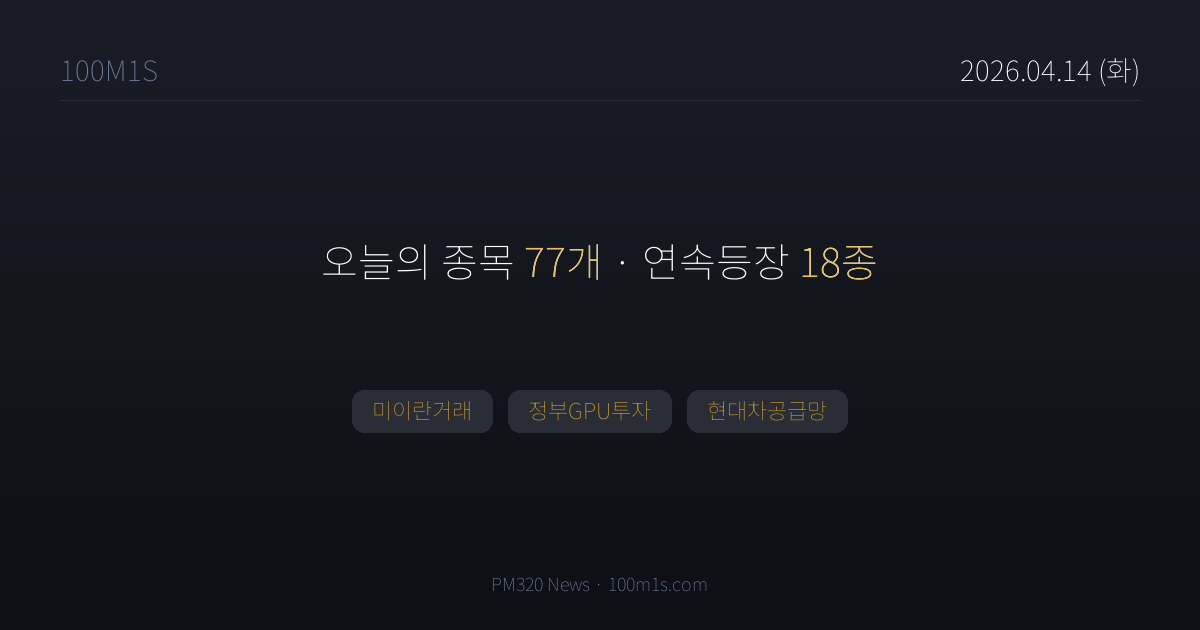
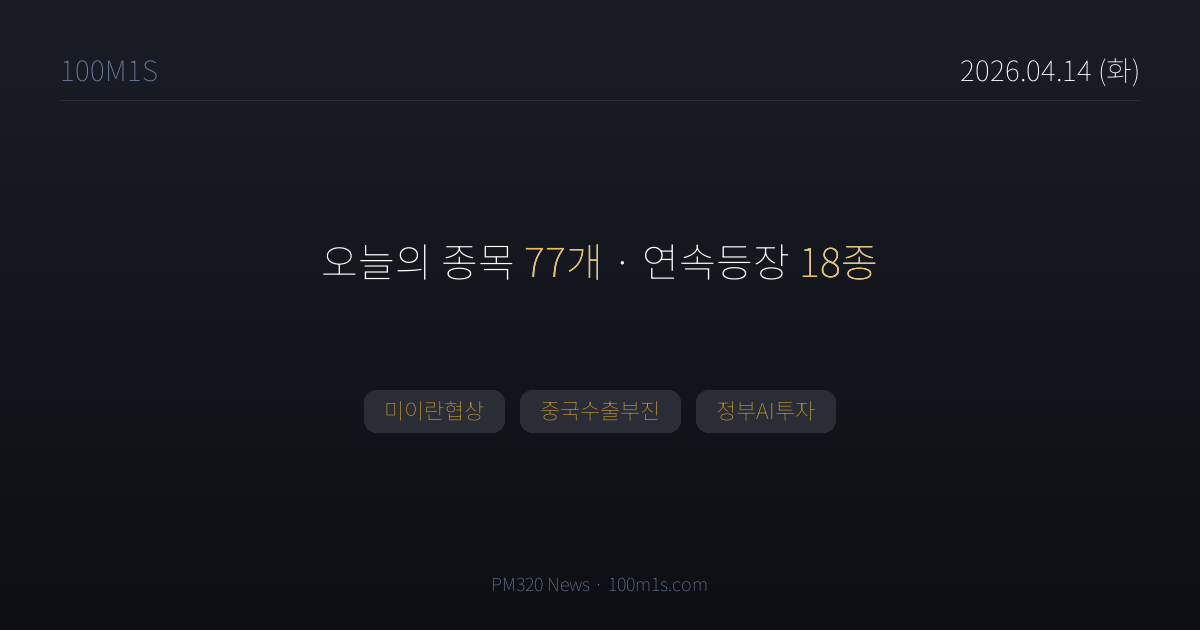
chore(news): 2026-04-14T12:22 pipeline

Changed region(s): [[0.2775, 0.6032, 0.7092, 0.6937]]

diff --git a/news/2026-04-14.html b/news/2026-04-14.html
@@ -4,7 +4,7 @@
 <meta charset="UTF-8">
 <title>4월 14일 (화) 뉴스 — 100M1S</title>
 <meta property="og:title" content="4월 14일 (화) · 종목 77개">
-<meta property="og:description" content="미이란거래, 정부GPU투자, 현대차공급망">
+<meta property="og:description" content="미이란협상, 중국수출부진, 정부AI투자">
 <meta property="og:image" content="https://100m1s.com/og/2026-04-14.png">
 <meta property="og:image:width" content="1200">
 <meta property="og:image:height" content="630">
